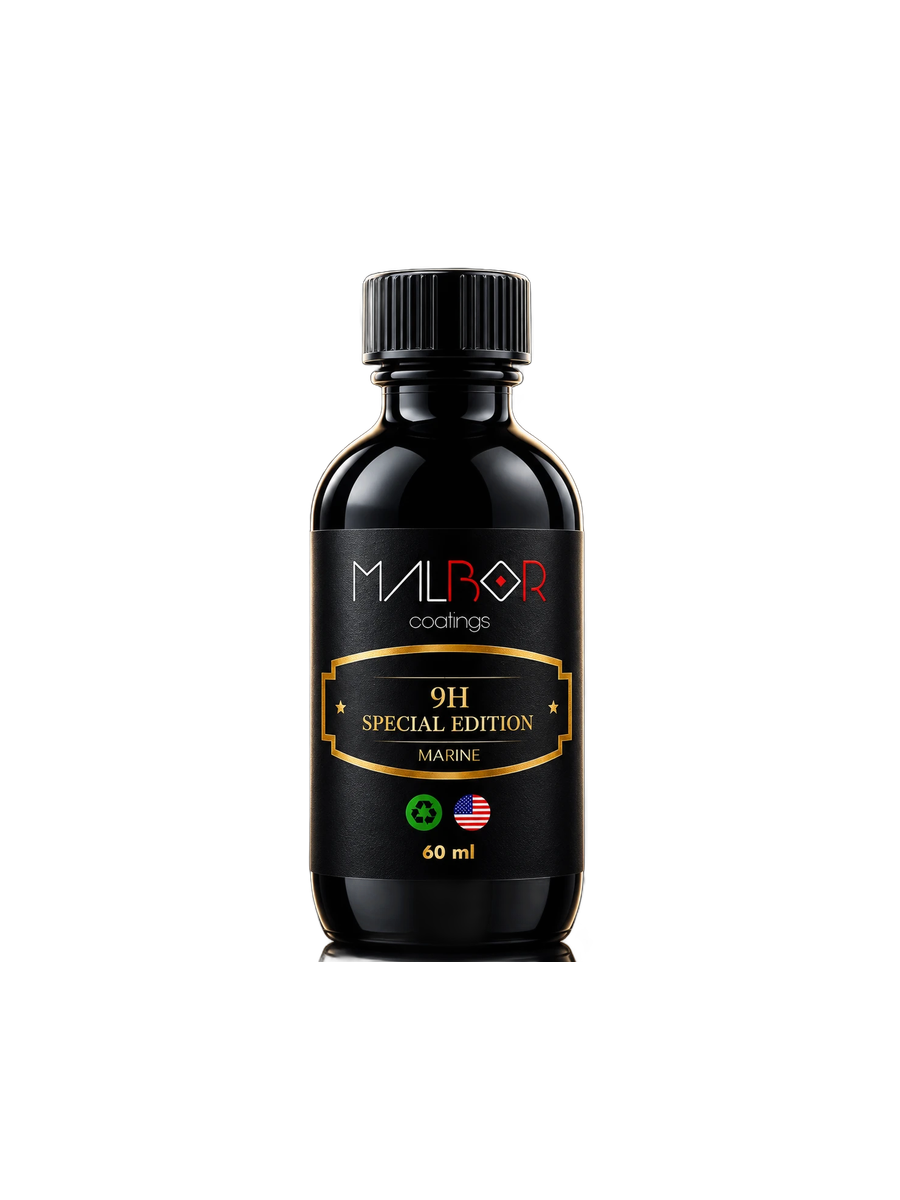
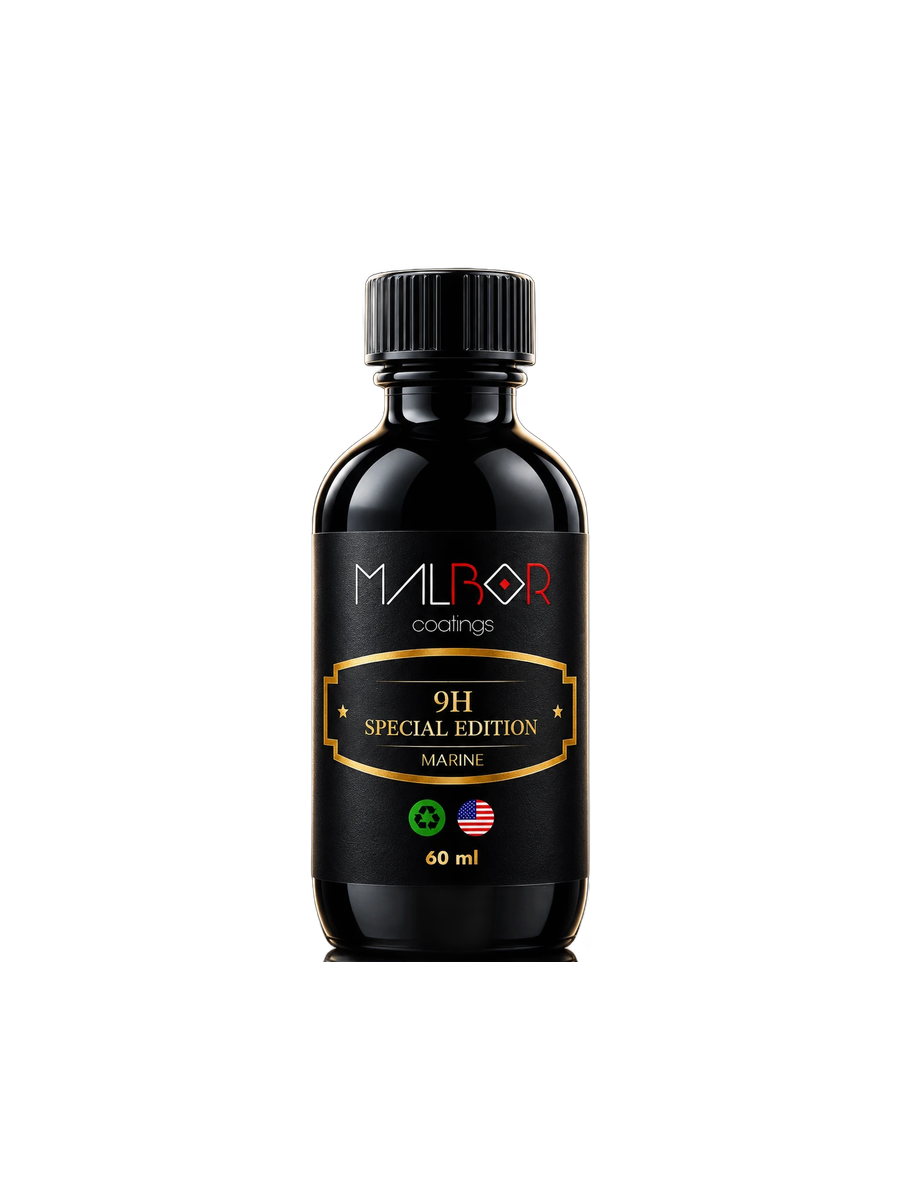
Use the reworked renders, now including the car 9H and Black Ceramic
The designer redid the renders used on the page: the two car versions
(9H Special Edition 60ml, Black Ceramic 10H 60ml) are new and now show in
their cards; the Marine 9H, Marine Black Ceramic and Glass Coating renders
are the same images, re-cut with a rule that removes the floor reflection
more cleanly (1130px below the top of the cap). The cut-out scripts are
kept in media/black-friday/tools.

Claude-Session: https://claude.ai/code/session_017fnR1fF6meCPoBfLmNSdjN

Changed region(s): [[0.3422, 0.2158, 0.6533, 0.8017]]

diff --git a/media/black-friday/tools/place.py b/media/black-friday/tools/place.py
@@ -1,0 +1,28 @@
+import sys
+from PIL import Image, ImageDraw, ImageFilter
+import numpy as np
+S=sys.argv[1]
+W,H=900,1200
+names={"4":"black-ceramic-10h-60ml-marine","5":"glass-coating-60ml","6":"9h-special-edition-60ml-marine",
+       "16":"9h-special-edition-60ml","17":"black-ceramic-10h-60ml"}
+for n,h in names.items():
+    im=Image.open(f"{S}/renders-cut/isnet-general-use-{n}.png").convert("RGBA")
+    a=np.array(im)[:,:,3]; rows=(a>200).sum(1)
+    # The bottle meets its reflection at the narrowest row near the bottom.
+    # The base is the last row before the width falls off sharply: below it
+    # the floor reflection is much narrower (or gone).
+    # Same bottle, same camera in every render: from the top of the cap to the
+    # base is ~1140px; cutting at 1130 drops the last sliver of reflection. Measuring the base directly is unreliable where the
+    # floor reflection is strong and continuous.
+    top=int(np.argmax(rows>0))
+    base=top+1130-{'16':25,'17':12}.get(n,0)  # the gold v2 has a brighter floor line
+    # The body's columns (cap to label) bound the bottle; drop stray pixels.
+    body=np.where((a[300:1150]>200).any(0))[0]
+    x0,x1=int(body.min())-4,int(body.max())+4
+    arr=np.array(im); arr[base+1:,:,3]=0; arr[:,:x0,3]=0; arr[:,x1+1:,3]=0; im=Image.fromarray(arr)
+    b=im.crop(im.getbbox()); bw,bh=b.size
+    th=round(0.58*H); tw=round(bw*th/bh); b=b.resize((tw,th),Image.LANCZOS)
+    c=Image.new("RGBA",(W,H),(0,0,0,0)); c.alpha_composite(b,(round((W-tw)/2),round(0.802*H)-th))
+    c.save(f"{S}/renders-out/lp-bf-render-{h}.png",optimize=True)
+    print(f"{h:38} base {base} bbox {im.getbbox()} height {base-im.getbbox()[1]} w {tw/W:.3f}")
+

diff --git a/media/black-friday/tools/cut.py b/media/black-friday/tools/cut.py
@@ -1,0 +1,11 @@
+import sys, os
+from rembg import remove, new_session
+from PIL import Image
+model = sys.argv[1]
+s = new_session(model)
+for src in sys.argv[2:]:
+    im = Image.open(src).convert("RGB")
+    out = remove(im, session=s)
+    dst = os.path.join(os.environ["OUT"], model + "-" + os.path.basename(src).rsplit(".",1)[0] + ".png")
+    out.save(dst)
+    print("wrote", dst, out.getbbox())

diff --git a/media/black-friday/README.md b/media/black-friday/README.md
@@ -1,7 +1,11 @@
 # Black Friday bottle renders
 
-Campaign renders of three Professional Line bottles, cut out (rembg,
-isnet-general-use), with the floor reflection removed, placed on a
+Campaign renders of five Professional Line bottles (9H Special Edition and
+Black Ceramic 10H, each in the car and Marine version, and Glass Coating),
+cut out (rembg, isnet-general-use). The floor reflection is removed by
+cutting 1130px below the top of the cap (same bottle and camera in every
+render; a little more on the two car renders, whose floor line is brighter),
+and each bottle is placed on a
 transparent 900x1200 canvas so the bottle sits where it does in the store's
 product photos: 34.5%–65.5% across, 22.2%–80.2% down. That framing is what
 `snippets/lp-blackfriday-bottle.liquid` trims to, so the bottle stands on the
@@ -9,3 +13,8 @@ page's pedestal.
 
 They are uploaded to Shopify Files under the same names and referenced from
 the templates as `shopify://shop_images/<name>`.
+
+To redo them: `tools/cut.py` runs rembg on the renders (`OUT=<dir> python
+cut.py isnet-general-use <render files>`), and `tools/place.py <dir>` cuts the
+reflection and places each bottle on the canvas (the render-number to handle
+map is at the top of the script).
